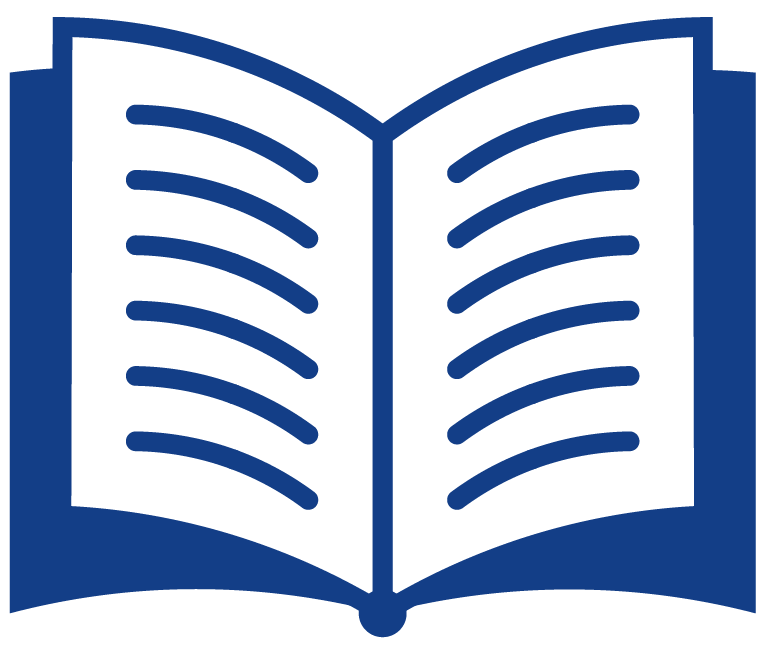
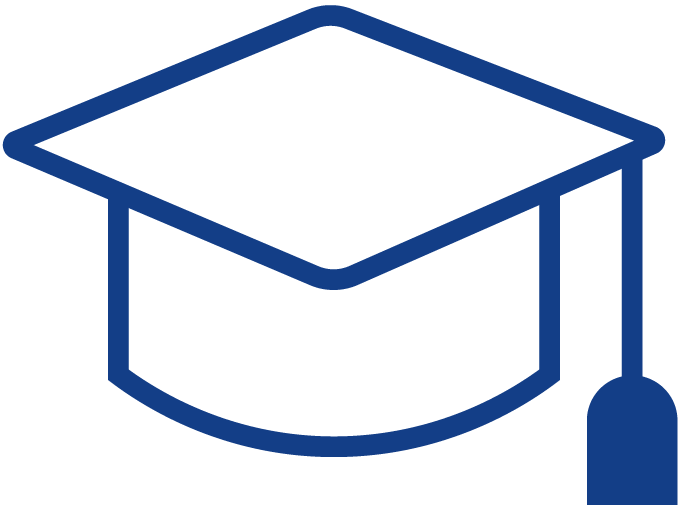
Arreglo de errores varios

diff --git a/front-mi-aula/src/app/pages/solicitud/nueva/nueva.html b/front-mi-aula/src/app/pages/solicitud/nueva/nueva.html
@@ -30,7 +30,7 @@
 					</select>
 					<p *ngIf="cargandoReservas" class="small-note">Cargando tus reservas actuales y futuras...</p>
 					<p *ngIf="form.get('reserva_original_id')?.value" class="small-note">
-						Si se aprueba, la reserva original finalizará el día anterior al nuevo inicio.
+						Si se aprueba, la reserva original quedará inactiva y, cuando corresponda, finalizará el día anterior al nuevo inicio.
 					</p>
 				</div>
 			</div>
@@ -46,6 +46,19 @@
 				</div>
 
 				<div class="form-group">
+					<label for="materia">Materia</label>
+					<input
+						id="materia"
+						class="form-control"
+						type="text"
+						[value]="nombreMateriaSeleccionada"
+						placeholder="Se completa al seleccionar una comisión"
+						readonly>
+				</div>
+			</div>
+
+			<div class="form-row">
+				<div class="form-group">
 					<label for="espacio">Espacio solicitado</label>
 					<select id="espacio" class="form-control" formControlName="nuevo_espacio_id">
 						<option [ngValue]="null">-- Seleccione --</option>
@@ -53,9 +66,7 @@
 					</select>
 					<span *ngIf="form.get('nuevo_espacio_id')?.touched && form.get('nuevo_espacio_id')?.hasError('required')" class="error-message">El espacio es requerido.</span>
 				</div>
-			</div>
 
-			<div class="form-row">
 				<div class="form-group">
 					<label for="dia">Día de la semana</label>
 					<select id="dia" class="form-control" formControlName="dia_semana" (change)="cargarRecursosDisponibles()">
@@ -84,7 +95,7 @@
 					<input id="fecha_fin" class="form-control" type="date" [min]="fechaFinMinima" formControlName="fecha_fin" (change)="actualizarFechaFinMinima(); cargarRecursosDisponibles()" />
 					<span *ngIf="form.get('fecha_fin')?.touched && form.get('fecha_fin')?.hasError('required')" class="error-message">La fecha de fin es requerida.</span>
 					<span *ngIf="form.get('fecha_fin')?.touched && form.get('fecha_fin')?.hasError('fechaNoPosteriorAHoy')" class="error-message">La fecha de fin debe ser posterior a hoy.</span>
-					<span *ngIf="form.get('fecha_fin')?.touched && form.hasError('rangoFechasInvalido')" class="error-message">La fecha de fin no puede ser anterior a la fecha de inicio.</span>
+					<span *ngIf="form.get('fecha_fin')?.touched && form.hasError('rangoFechasInvalido')" class="error-message">La fecha de fin debe ser posterior a la fecha de inicio.</span>
 				</div>
 			</div>
 

diff --git a/front-mi-aula/src/app/pages/solicitud/nueva/nueva.ts b/front-mi-aula/src/app/pages/solicitud/nueva/nueva.ts
@@ -90,16 +90,21 @@ export class Nueva implements OnInit {
     });
   }
 
+  get nombreMateriaSeleccionada(): string {
+    const comisionId = Number(this.form?.get('comision_id')?.value);
+    return this.comisiones.find((comision) => comision.id === comisionId)?.materiaNombre ?? '';
+  }
+
   private readonly fechaNoAnteriorAHoy: ValidatorFn = (control: AbstractControl): ValidationErrors | null =>
     control.value && control.value < this.fechaMinima ? { fechaAnteriorAHoy: true } : null;
 
   private readonly fechaPosteriorAHoy: ValidatorFn = (control: AbstractControl): ValidationErrors | null =>
-    control.value && control.value <= this.fechaMinima ? { fechaNoPosteriorAHoy: true } : null;
+    control.value && control.value <= this.fechaMinimaNueva ? { fechaNoPosteriorAHoy: true } : null;
 
   private readonly rangoFechasValido: ValidatorFn = (control: AbstractControl): ValidationErrors | null => {
     const fechaInicio = control.get('fecha_inicio')?.value;
     const fechaFin = control.get('fecha_fin')?.value;
-    return fechaInicio && fechaFin && fechaInicio > fechaFin ? { rangoFechasInvalido: true } : null;
+    return fechaInicio && fechaFin && fechaInicio >= fechaFin ? { rangoFechasInvalido: true } : null;
   };
 
   private readonly rangoHorasValido: ValidatorFn = (control: AbstractControl): ValidationErrors | null => {
@@ -153,14 +158,12 @@ export class Nueva implements OnInit {
       return;
     }
 
-    this.fechaMinima = this.maxFecha(
-      this.fechaMinimaNueva,
-      this.sumarDias(reserva.fechaInicio, 1)
-    );
+    this.fechaMinima = this.fechaMinimaNueva;
     const fechaInicio = this.fechaMinima;
+    const fechaInicioReserva = this.maxFecha(reserva.fechaInicio, fechaInicio);
     this.fechaFinMinima = this.maxFecha(
       this.fechaFinMinimaNueva,
-      this.sumarDias(fechaInicio, 1)
+      this.sumarDias(fechaInicioReserva, 1)
     );
     const fechaFin = this.maxFecha(reserva.fechaFin, this.fechaFinMinima);
 
@@ -168,7 +171,7 @@ export class Nueva implements OnInit {
       nuevo_espacio_id: reserva.espacioId,
       comision_id: reserva.comisionId,
       dia_semana: reserva.diaSemana,
-      fecha_inicio: fechaInicio,
+      fecha_inicio: fechaInicioReserva,
       fecha_fin: fechaFin,
       hora_inicio: reserva.horaInicio,
       hora_fin: reserva.horaFin,

diff --git a/front-mi-aula/src/app/pages/dashboard/dashboard.component.html b/front-mi-aula/src/app/pages/dashboard/dashboard.component.html
@@ -104,6 +104,26 @@
 
         </div>
 
+        <!-- EVENTOS -->
+
+        <div
+          class="action-card"
+          (click)="navigateTo('/gestion-evento')">
+
+          <img
+            class="card-icon"
+            src="Eventos.png"
+            alt="Icono de eventos">
+
+          <h3>
+            Gestión de Eventos
+          </h3>
+
+          <p>
+            Registrar y administrar eventos institucionales
+          </p>
+
+        </div>
 
         <!-- USUARIOS -->
 
@@ -194,49 +214,26 @@
 
         <!-- MATERIAS -->
 
-       <div
-        class="action-card"
-        (click)="navigateTo('/gestion-materia')">
-
-        <img
-          class="card-icon"
-         src="Comisiones.png"
-         alt="Icono de materias">
-
-      <h3>
-    Gestión de Materias
-     </h3>
-
-       <p>
-    Administrar las materias del sistema
-      </p>
-
-      </div>
-
-        <!-- ====================================================
-             EVENTOS
-             ==================================================== -->
-
         <div
           class="action-card"
-          (click)="navigateTo('/gestion-evento')">
+          (click)="navigateTo('/gestion-materia')"> 
 
           <img
             class="card-icon"
-            src="Reservas.png"
-            alt="Icono de eventos">
+            src="Materias.png"
+            alt="Icono de materias">
 
           <h3>
-            Gestión de Eventos
+            Gestión de Materias
           </h3>
 
           <p>
-            Registrar y administrar eventos institucionales
+            Administrar las materias del sistema
           </p>
 
-        </div>
+         </div>
 
-
+        
         <!-- CARRERAS -->
 
         <div

diff --git a/front-mi-aula/src/app/pages/gestion-comisiones/administrar-comisiones/administrar-comisiones.html b/front-mi-aula/src/app/pages/gestion-comisiones/administrar-comisiones/administrar-comisiones.html
@@ -35,7 +35,7 @@
       <input
         type="text"
         class="input-buscar"
-        placeholder="Buscar por comisión, asignatura, carrera o profesor..."
+        placeholder="Buscar por comisión, materia, carrera o profesor..."
         [(ngModel)]="busqueda"
         (input)="buscar()"
         aria-label="Buscar comisiones">
@@ -54,7 +54,7 @@
           <tr>
             <th>Comisión</th>
             <th>Alumnos</th>
-            <th>Asignatura</th>
+            <th>Materia</th>
             <th>Carrera</th>
             <th>Profesor</th>
             <th>Estado</th>
@@ -76,7 +76,7 @@
                 {{ comision.cantidadEstudiantes }}
               </td>
 
-              <td data-label="Asignatura">
+              <td data-label="Materia">
                 {{ comision.materiaNombre }}
               </td>
 

diff --git a/front-mi-aula/src/app/services/comision-service/comision-service.ts b/front-mi-aula/src/app/services/comision-service/comision-service.ts
@@ -6,7 +6,7 @@ export interface Comision {
   id: number;
   codigo: string;
   nombre: string;
-  asignaturaNombre: string;
+  materiaNombre: string;
   carreraNombre: string;
   profesorNombre: string;
   cantidadEstudiantes: number;

diff --git a/miAulaAPI/src/test/java/com/miAula/miAula/service/ReservaServiceTest.java b/miAulaAPI/src/test/java/com/miAula/miAula/service/ReservaServiceTest.java
@@ -18,6 +18,7 @@ import java.time.LocalTime;
 import java.util.List;
 
 import static org.junit.jupiter.api.Assertions.assertEquals;
+import static org.junit.jupiter.api.Assertions.assertFalse;
 import static org.junit.jupiter.api.Assertions.assertNotSame;
 import static org.mockito.ArgumentMatchers.any;
 import static org.mockito.Mockito.times;
@@ -75,6 +76,7 @@ class ReservaServiceTest {
         Reserva nueva = reservaService.modificarDesdeSolicitud(solicitud);
 
         assertEquals(nuevoInicio.minusDays(1), original.getDiaDeFin());
+        assertFalse(original.getActivo());
         assertEquals(hoy.minusDays(30), original.getDiaDeInicio());
         assertEquals(DiaSemana.LUNES, original.getDiaDeLaSemana());
         assertEquals(LocalTime.of(9, 0), original.getHoraDeInicio());
@@ -83,6 +85,54 @@ class ReservaServiceTest {
         assertEquals(nuevoInicio, nueva.getDiaDeInicio());
         assertEquals(DiaSemana.LUNES, nueva.getDiaDeLaSemana());
         assertEquals(espacioOriginal, nueva.getEspacio());
+        verify(reservaRepository, times(2)).save(any(Reserva.class));
+    }
+
+    @Test
+    void modificarDesdeSolicitudPermiteUnaFechaAnteriorAlInicioOriginal() {
+        LocalDate hoy = LocalDate.now();
+        Espacio espacio = new Espacio();
+        espacio.setId(1L);
+        Comision comision = new Comision();
+        comision.setId(3L);
+        Usuario solicitante = new Usuario();
+        solicitante.setId(4L);
+
+        Reserva original = new Reserva();
+        original.setId(5L);
+        original.setActivo(true);
+        original.setDiaDeLaSemana(DiaSemana.LUNES);
+        original.setDiaDeInicio(hoy.plusDays(30));
+        original.setDiaDeFin(hoy.plusDays(60));
+        original.setHoraDeInicio(LocalTime.of(9, 0));
+        original.setHoraDeFin(LocalTime.of(10, 0));
+        original.setEspacio(espacio);
+        original.setComision(comision);
+        original.setSolicitante(solicitante);
+
+        Solicitud solicitud = new Solicitud();
+        solicitud.setReservaOriginal(original);
+        solicitud.setDiaDeLaSemana(DiaSemana.LUNES);
+        solicitud.setDiaDeInicio(hoy);
+        solicitud.setDiaDeFin(hoy.plusDays(20));
+        solicitud.setHoraDeInicio(LocalTime.of(11, 0));
+        solicitud.setHoraDeFin(LocalTime.of(12, 0));
+        solicitud.setEspacio(espacio);
+        solicitud.setComision(comision);
+        solicitud.setSolicitante(solicitante);
+
+        when(reservaRepository.findByEspacio_IdAndDiaDeLaSemanaAndActivoTrue(1L, DiaSemana.LUNES))
+                .thenReturn(List.of(original));
+        when(reservaRepository.save(any(Reserva.class)))
+                .thenAnswer(invocation -> invocation.getArgument(0));
+
+        Reserva nueva = reservaService.modificarDesdeSolicitud(solicitud);
+
+        assertEquals(hoy.plusDays(60), original.getDiaDeFin());
+        assertFalse(original.getActivo());
+        assertEquals(hoy, nueva.getDiaDeInicio());
+        assertEquals(LocalTime.of(11, 0), nueva.getHoraDeInicio());
+        assertEquals(LocalTime.of(12, 0), nueva.getHoraDeFin());
         verify(reservaRepository, times(2)).save(any(Reserva.class));
     }
 }

diff --git a/miAulaAPI/src/main/java/com/miAula/miAula/service/ReservaService.java b/miAulaAPI/src/main/java/com/miAula/miAula/service/ReservaService.java
@@ -155,17 +155,14 @@ public class ReservaService {
         if (reservaOriginal.getDiaDeFin().isBefore(LocalDate.now())) {
             throw new EntityValidationException("No se pueden modificar reservas pasadas.");
         }
-        if (!solicitud.getDiaDeInicio().isAfter(reservaOriginal.getDiaDeInicio())) {
-            throw new EntityValidationException(
-                    "La nueva fecha de inicio debe ser posterior al inicio de la reserva original.");
-        }
-
         validarDisponibilidad(solicitud, reservaOriginal.getId());
         LocalDate finAnteriorAlCambio = solicitud.getDiaDeInicio().minusDays(1);
-        if (finAnteriorAlCambio.isBefore(reservaOriginal.getDiaDeFin())) {
+        if (solicitud.getDiaDeInicio().isAfter(reservaOriginal.getDiaDeInicio())
+                && finAnteriorAlCambio.isBefore(reservaOriginal.getDiaDeFin())) {
             reservaOriginal.setDiaDeFin(finAnteriorAlCambio);
-            reservaRepository.save(reservaOriginal);
         }
+        reservaOriginal.setActivo(false);
+        reservaRepository.save(reservaOriginal);
 
         return crearDesdeSolicitud(solicitud);
     }

diff --git a/miAulaAPI/src/main/java/com/miAula/miAula/service/SolicitudService.java b/miAulaAPI/src/main/java/com/miAula/miAula/service/SolicitudService.java
@@ -172,10 +172,6 @@ public class SolicitudService {
             throw new EntityValidationException(
                     "Ya existe una solicitud pendiente para modificar esta reserva.");
         }
-        if (!solicitud.getDiaDeInicio().isAfter(reservaOriginal.getDiaDeInicio())) {
-            throw new EntityValidationException(
-                    "La fecha de inicio de la modificación debe ser posterior al inicio de la reserva original.");
-        }
         validarSolicitanteDeComision(solicitud.getSolicitante(), solicitud.getComision());
         recursoService.agregarRecursosASolicitud(solicitud, dto.getRecursos());
         return solicitudRepository.save(solicitud);
